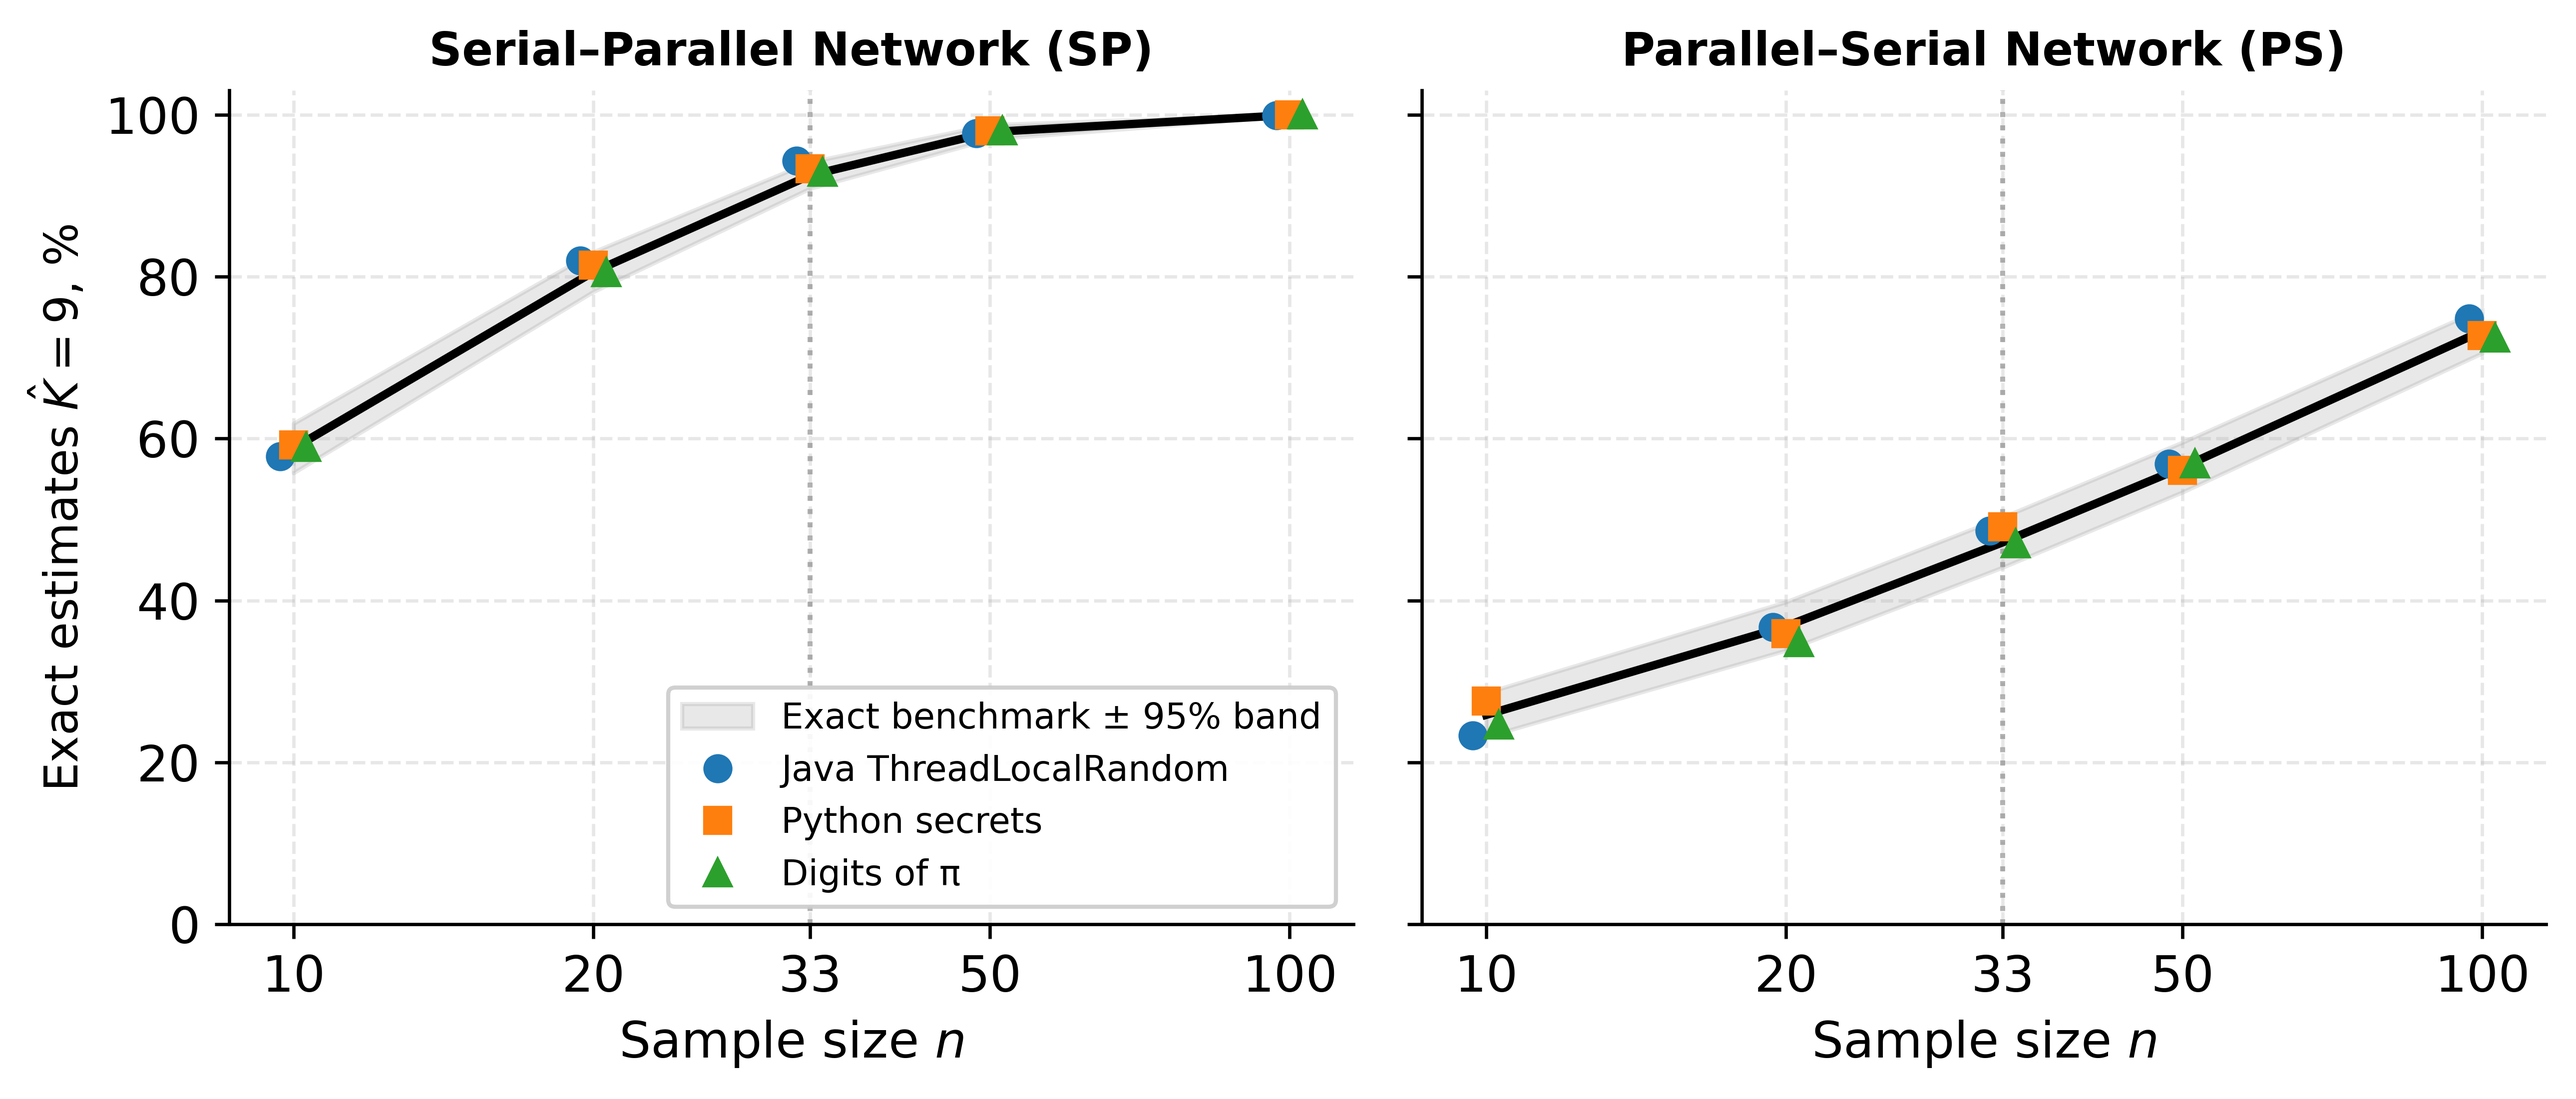
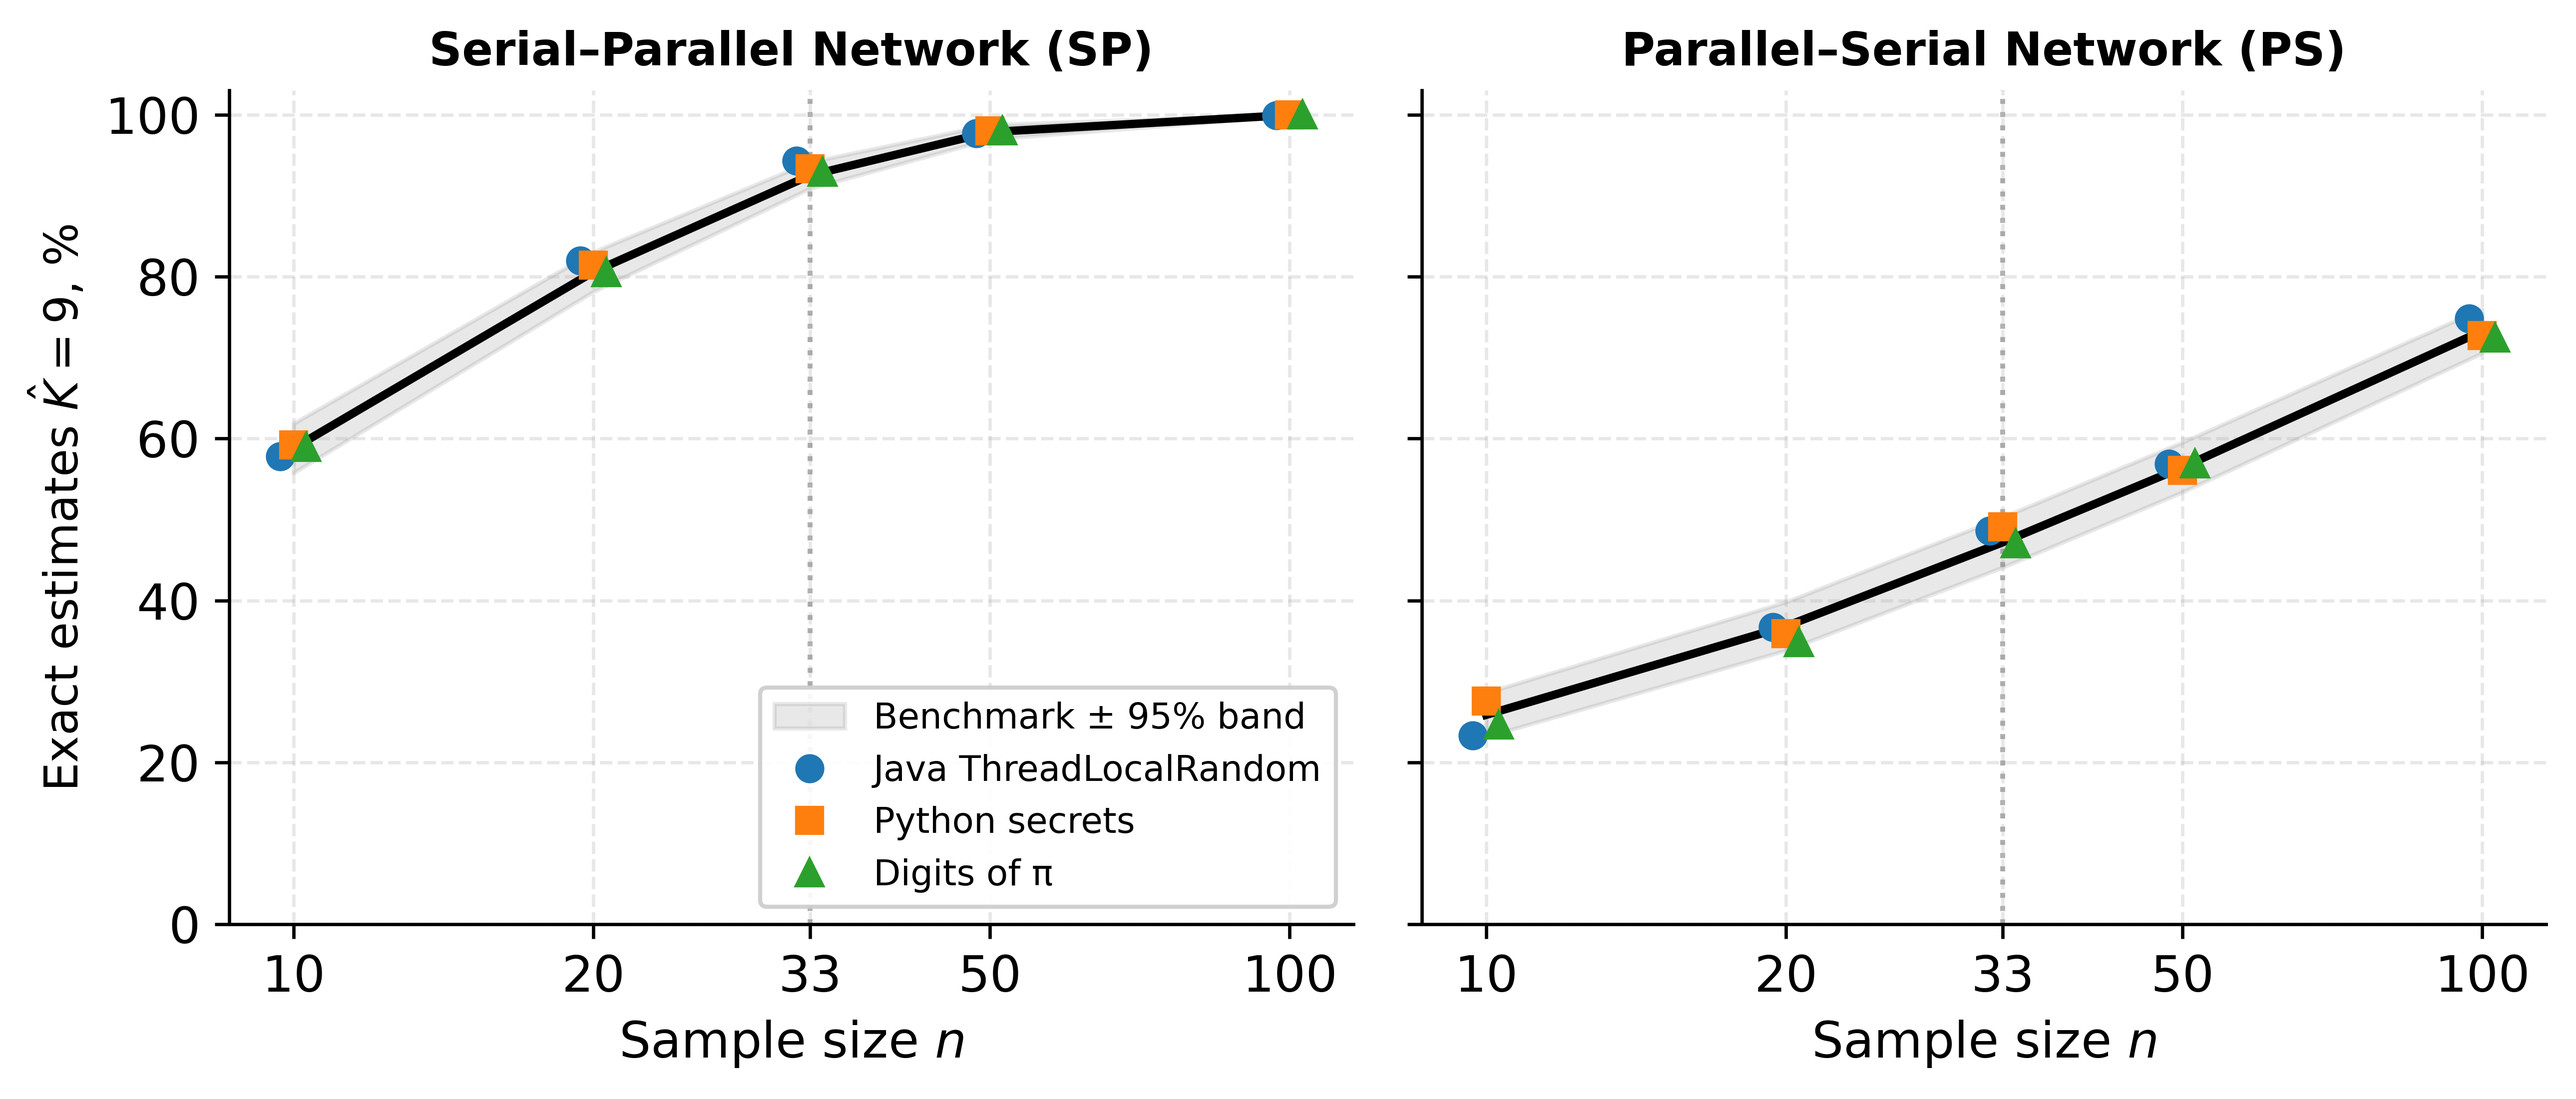
Add covariance check for Table 5; rename benchmark in Figure 6 legend

Changed region(s): [[0.2497, 0.6179, 0.5306, 0.8342]]

diff --git a/check_table5_covariance.py b/check_table5_covariance.py
@@ -1,0 +1,39 @@
+# -*- coding: utf-8 -*-
+"""Block-level check of the independence assumption behind z in Table 5.
+Blocks of 594 digits hold 2 inverse-CDF and 3 structural replications that share digits."""
+import sys, json
+from pathlib import Path
+import numpy as np
+HERE = Path(__file__).resolve().parent
+sys.path.insert(0, str(HERE))
+from sp_ps_core import (FILES, C3, C5, K_TRUE, load_digits, randu_digits, sim_inverse, sim_structural,
+                        mle_complete, mle_censored)
+import sp_ps_core as core
+R, n = 1000, 33
+DPF = getattr(core, "DIGITS_PER_FILE", 2_614_690)
+src = {g: load_digits(f[0]) for g, f in FILES.items()}
+src["RANDU"] = randu_digits(DPF)
+est = lambda X, net: {"complete": mle_complete(X, net=net), "C3": mle_censored(X, C3, net=net),
+                      "C5": mle_censored(X, C5, net=net)}
+res = json.load(open(HERE / "results" / "results_v2.json"))["E2_delta"]   # run run_experiments.py first
+out = {}
+for g, d in src.items():
+    for net in ("SP", "PS"):
+        Ei = est(sim_inverse(d, R, n, net=net), net); Es = est(sim_structural(d, R, n, net=net), net)
+        for s in ("complete", "C3", "C5"):
+            a = (Ei[s] - K_TRUE) ** 2.0; b = (Es[s] - K_TRUE) ** 2.0
+            A = np.zeros(500); B = np.zeros(500)
+            np.add.at(A, np.arange(R) // 2, a); np.add.at(B, np.arange(R) // 3, b)
+            Dm = (A - B) / R                      # block contributions; ΔMSE = sum(Dm)
+            g1 = slice(0, 333); g3 = slice(334, 500)
+            var = 333 * Dm[g1].var(ddof=1) + 166 * Dm[g3].var(ddof=1) + Dm[g1].var(ddof=1)
+            se_b = np.sqrt(var); dm = Dm.sum()
+            r = np.corrcoef(A[g1], B[g1])[0, 1]
+            k = f"{g}|{net}|{s}"
+            out[k] = (res[k]["z"], dm / se_b, r)
+zi = np.array([v[0] for v in out.values()]); zb = np.array([v[1] for v in out.values()])
+rr = np.array([v[2] for v in out.values()])
+for k, v in out.items():
+    print(f"{k:40s} z_indep={v[0]:+.2f} z_block={v[1]:+.2f} corr={v[2]:+.3f}")
+print("max|z_indep-z_block|=%.3f  corr mean=%.3f range=[%.3f,%.3f]" % (abs(zi - zb).max(), rr.mean(), rr.min(), rr.max()))
+print("|z|>1.96 indep:", int((abs(zi) > 1.96).sum()), " block:", int((abs(zb) > 1.96).sum()))

diff --git a/figures/figura8_marime_esantion.py b/figures/figura8_marime_esantion.py
@@ -1,8 +1,6 @@
 """
 Figure 6 (NOU) — Percentage of exact estimates K_hat = 9 versus the sample size n
-(complete data, inverse CDF method, R = 1000), with the exact benchmark and its 95% band.
-Datele provin din run_experiments.py (results/results_v2.json, cheia E4 -> n).
-Acelasi stil ca figurile existente (figura1..figura6).
+(complete data, inverse CDF method, R = 1000), with the reference benchmark and its 95% band.
 """
 import os
 import json
@@ -30,7 +28,7 @@ for ax, net, title in [(axes[0], 'SP', "Serial–Parallel Network (SP)"),
     b = np.array([E4n[str(m)][net]['benchmark']['exact'] for m in ns]) / 100
     half = 1.96 * np.sqrt(b * (1 - b) / 1000)
     ax.fill_between(ns, 100 * (b - half), 100 * np.minimum(b + half, 1), color='gray', alpha=0.18,
-                    label='Exact benchmark ± 95% band', zorder=1)
+                    label='Benchmark ± 95% band', zorder=1)
     ax.plot(ns, 100 * b, color='black', lw=2.0, zorder=2)
     for j, (g, c, mk) in enumerate(zip(GNPA, COLORS, MARKERS)):
         ax.plot(np.array(ns) * (1 + (j - 1) * 0.03),
